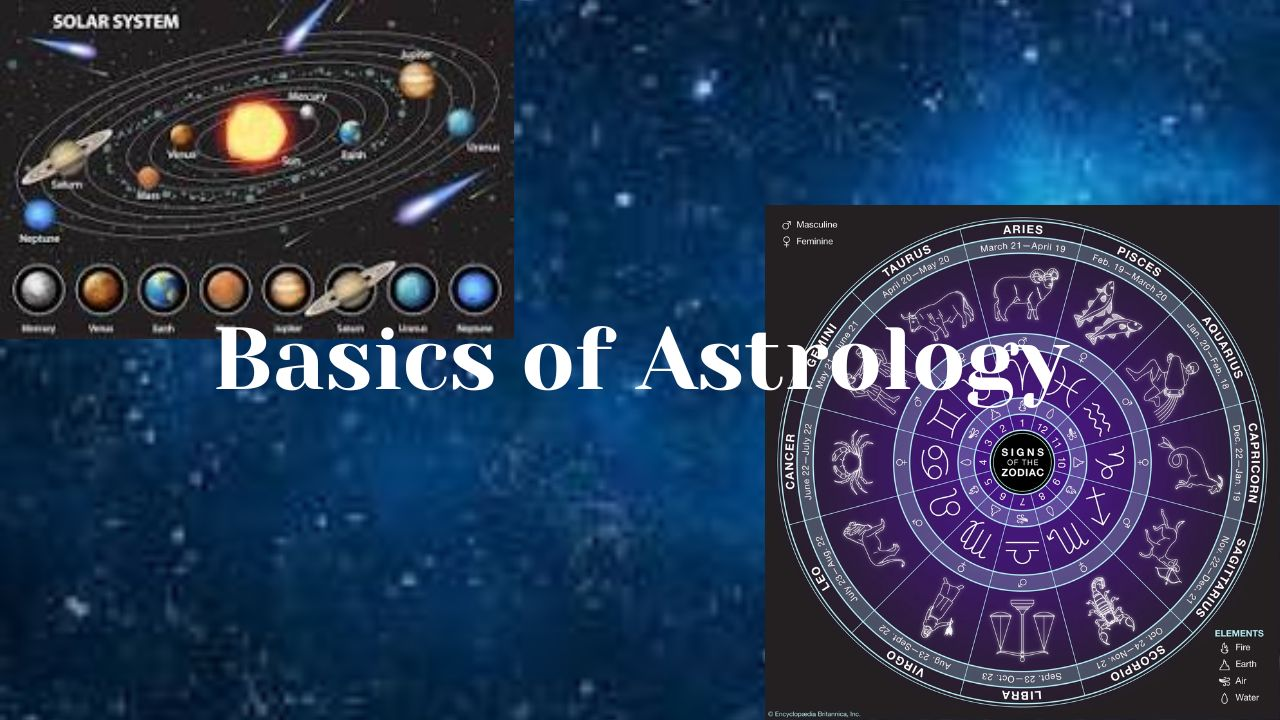
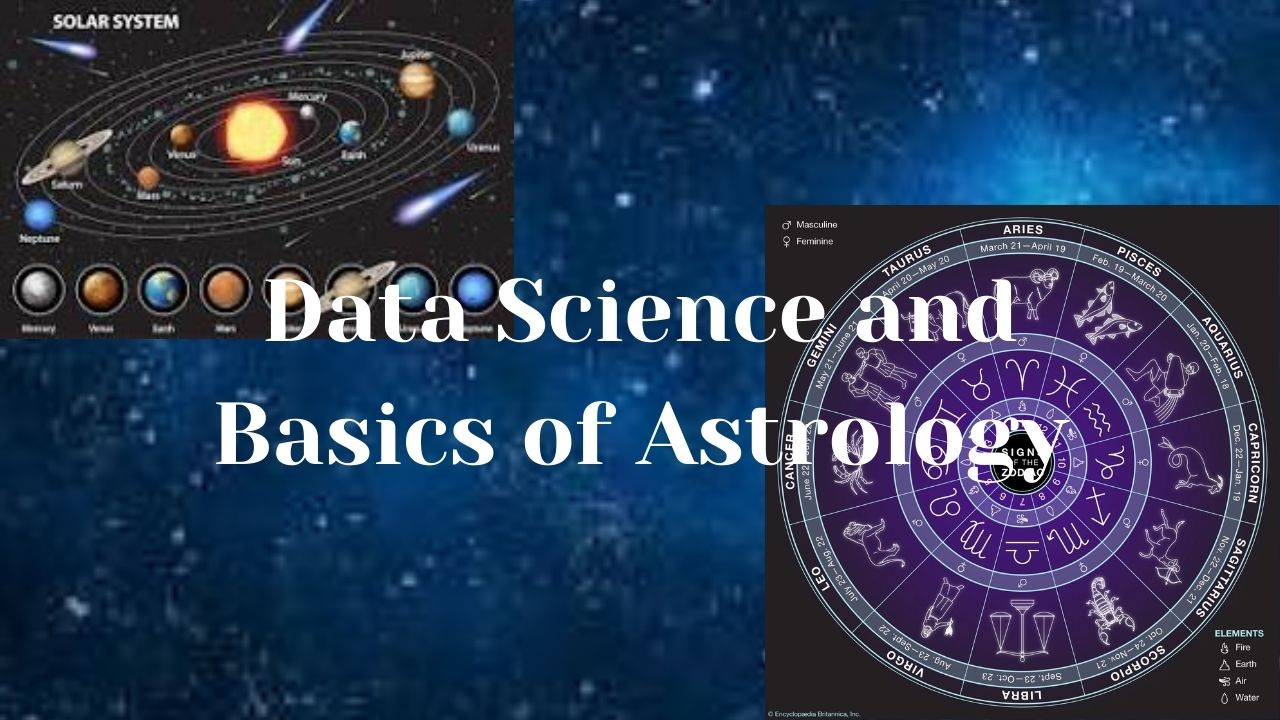
astrology

Changed region(s): [[0.1562, 0.3667, 0.8438, 0.6722]]

diff --git a/_dsblog/2023-12-27-Basics-of-Astrology.md b/_dsblog/2023-12-27-Basics-of-Astrology.md
@@ -1,7 +1,7 @@
 ---        
 mathjax: true   
 id:  6108       
-title: Basics of Astrology    
+title: Data Science and Basics of Astrology    
 date: "2023-12-27T08:33:00+05:30"        
 permalink: /dsblog/Basics-of-Astrology
 tags: [Education, Data Science, Astrology, Astronomy]
@@ -41,26 +41,26 @@ Let's say we want to study how safe you drive on the roads, we want to predict w
 Now you see, we can add 1000 more variables and some variables less and some more influence our driving habit and are useful in predicting the accident.
 
 
-Using this data, if we create a model and start predicting an accident or ticket/challan, obviously some of the predictions will be false negative, some will be false positive. But if model is have good variables in it then it predicts much better than the random guess.
+Using this data, we ccan reate a model and start predicting an accident or ticket/challan, obviously some of the predictions will be false negative, some will be false positive. But, if a model is having good variables in it then it predicts much better than the random guess.
 
-In older times, when people were interested in predicting life they were using time related variables, which are more reliable and what is more reliable in the cosmos than the movement of planets and stars in the sky? Now people started tracking the movement of these stars in the sky and events on the earth. Fire, earthquake, pandemic, war, rain, crop, fight, loss, gain of individuals, family and of king. And they developed a subject around this, that subject is astrology.
+In older times, when people were interested in predicting life they were using time related variables. What is more reliable in the cosmos than the movement of planets and stars in the sky? Now people started tracking the movement of these stars in the sky and events on the earth. Fire, earthquake, pandemic, war, rain, crop, fight, loss, gain of individuals, family and of king. And they developed a subject around this, that subject is astrology.
 
-We must understand relationship doesn't mean causation. For example, if there is heat then an ice cream seller is very happy. There is a relationship between heat and ice cream seller's happiness, more the temperature makes him happy but this relationship doesn't mean icecream seller is happy because of the hot weather. He is happy because of some other reason. His ice cream sales are high! Cause of his happiness is his sales, not temperature.
+We must understand relationship doesn't mean causation. For example, if there is heat then an ice cream seller is very happy. There is a relationship between heat and ice cream seller's happiness, more the temperature makes him happy but this relationship doesn't mean icecream seller is happy because of the hot weather. He is happy because of some other reason. His icecream sales are high! Cause of his happiness is his sales, not temperature.
 
-Similarly when astrologers see some patterns of planets and stars in the sky and they know their patterns are repetitive, the cycle of occurance can vary from hour to day to month to year or century but here is cyclicity. Now they observe the planets, there is cyclicity of the events, we popularly call, history repeats itself in different ways. This relationship between events on the earth and events in the sky has a relationship. Whether there is causation or not, that is a different subject for the study. But if the model is good you cannot deny the relationship.
+Similarly when astrologers see some patterns of planets and stars in the sky and they know their patterns are repetitive. The cycle of occurance can vary from hour to day to month to year or century but here is cyclicity. Now they observe the planets, there is cyclicity of the events. We popularly call, history repeats itself in different ways. This relationship between events on the earth and events in the sky has a relationship. Whether there is causation or not, that is a different subject for the study. But if the model is good you cannot deny the relationship.
 
 ## Why Astrology is not Effective Today?
-Thousands years back when we observed the patterns in celestial objects and early life then we developed certain relationship. That time the lifestyle on the earth was different and today it has changed a lot. Although we do the same thing but in different ways. Today we eat, sleep, marry, travel, speak, do agriculture, protect our interest and land, learn, teach, transact etc and we were doing these things that time also but today we are doing different ways. Therefore, the variables which created the prediction model (astrology system) have changed. How much prediction quality has suffered, how much is the contribution of today's lifestyle; that is a matter of research. But, without a doubt if we revise the model with new variables of lifestyle we can establish a relationship between celestial objects and earthly life. The beauty of this prediction model is it has thousands of parameters and billions of combinations possible. If we rebuild a model again using changed data on the early life that model will work. Earlier we were using only the human brain to compute those numbers and make predictions, so it was human dependent, therefore whoever can do fast calculation will be able to do astrology work faster and better. But with today's computers we can do that in seconds.. 
+Thousands years back when we observed the patterns in celestial objects and early life then we developed certain relationship. That time the lifestyle on the earth was different and today it has changed a lot. Although we do the same thing but in different ways. Today we eat, sleep, marry, have children, travel, speak, do agriculture, protect our interest and land, learn, teach, transact etc. And we were doing these things that time also but today we are doing in different ways. Therefore, the variables which we use to create the prediction model (astrology system) have changed. How much prediction quality has suffered, how much is the contribution of today's lifestyle; that is a matter of research. But, without a doubt if we revise the model with new variables of lifestyle we can establish a relationship between celestial objects and earthly life. The beauty of this prediction model is it has thousands of parameters and billions of combinations possible. If we rebuild a model again using changed data on the early life that model will work. Earlier we were using only the human brain to compute those numbers and make predictions, so it was human dependent. Therefore whoever can do fast calculation will be able to do astrology work faster and better. But with today's computers we can do that in seconds. Unfortunately, today we are using computer for astrology calculations but the model is outdated. Therefore prediction capability of the model has suffered. 
 
 We need to keep in mind every model has two aspects, one model building and second is model prediction. Believing in the capabilities of our Rishi and not having confidence in ourselves, we have not built that Jyotish model for thousands of years. We are using that as is, for the prediction. If we pull resources together and rebuild that model it will predict better like any machine learning model.
 
+## Does Astrology Treatment Work?
+If you have a problem in the left eye and you are sure due to what reason it is then the right medicine at the right place helps. Because we have found the cause and effect, therefore, now knowing the effect (pain on left eye) we can address the cause. Pain is an effect, the cause of the pain is different from the pain. If we can change the cause with external intervention we can alter the effect. This is the way medical treatment works.
 
-## Doest Astrology Treatment Work?
-If you have a problem in the left eye and you are sure due to what reason it is then the right medicine at the right place helps. Because we have found the cause and effect, therefore, now knowing the effect we can address the cause. Pain is an effect, the cause of the pain is different from the pain. If we can change the cause with external intervention we can alter the effect. This is medical treatment work.
+Celestial objects' movement and earthly life have a relationship. That can be established without doubt. But to establish the cause of earthly pain, suffering and joy is celestial movement; it is intriguing and complicated. It is another subject of serious research. People believe certain things, but belief is the matter of religion. Science is based on experiments and repetition of those experiments. Beliefs and religion are personal in nature and they are based on customs and traditions. Science is a universal and commonly agreed principle, it does not care about customs and traditions.  
 
-Celestial objects' movement and earthly life have a relationship. That can be established without doubt. But to establish the cause of earthly pain, suffering and joy is celestial movement; it is intriguing and complicated. It is another subject of serious research.
+So, when humans want to address the problem of earthly life he knows the power of the human mind. Human mind can manifest any misery, suffering, hell. But the same mind can manifest joy, love, abundance and heaven. So humans try to condition the mind for good, for that purpose we take help from external objects like stone, eating habits, light, ventilation, reading text of religious books etc. Is there any relationship between human wellbeing and doing these activities? Definitely yes, but is there any causation between doing these activities and human well being that is another subject of research. Astrologers, since ages giving those astrological treatments and observing the patterns, found treatment is effective. It doesn't mean there is a cause and effect relationship. By wearing a certain stone or worshiping a certain deity something happens in most of the cases. It proves there is a relationship, it doesn't prove there is any causation.
 
-So, when humans want to address the problem of earthly life he knows the power of the human mind. Human mind can manifest any misery, suffering, hell. But the same mind can manifest joy, love, abundance and heaven. So human try to condition the mind for good, for that purpose we take help of external objects like stone, eating habit, light, ventilation, reading text of religious books etc. Is there any relationship between human wellbeing and doing these activities? Definitely yes, but is there any causation between doing these activities and human well being that is another subject of research. Astrologers, since ages giving those astrological treatments and observing the patterns, found treatment is effective. It doesn't mean there is a cause and effect relationship. By wearing certain stone or worshiping certain deity something happens in most of the case. It proves there is relationship, it doesn't prove there is any causation.
 
 ## Sky observation
 - At any point of the day or night, if we are on the ground without obstacles of a mountain or building then we can see 180 degree space around us. It means whatever planets or stars in the sky we can see, we see half of that what exists not more than that
@@ -121,49 +121,53 @@ So, when humans want to address the problem of earthly life he knows the power o
 - Hindu (Panchang), Muslim (Hijri), Jewish, and Chinese calendars are based on the lunar calendar.
 - When Hindus create their birth horoscope, they consider both the Sun and Moon, making both the Zodiac sign and Nakshatra significant. It is different thing that nowadays we only remember Zodiac sign and not aware about Nakshatra.
 
-## Astronomy
-- The Sun resides at the center of our solar system, with an approximate radius of 700,000 kilometers.
-	1. Mercury is positioned 58 million kilometers away from the Sun, boasting a radius of approximately 2,500 kilometers and no natural satellite.
-	2. Venus lies 108 million kilometers away from the Sun, having a radius of 6,000 kilometers and no natural satellite.
-	3. Earth is between 147 and 152 million KM away from sun, it has 6.4 K KM radius, and 1  natural satellite.
-	4. Mars is situated 228 million kilometers away from the Sun, with a radius of 3,400 kilometers and two natural satellites.
-	5. Jupiter orbits at a distance of 778 million kilometers from the Sun, exhibiting a massive radius of 70,000 kilometers and possessing 79 natural satellites.
-	6. Saturn is positioned 1,400 million kilometers away from the Sun, with a radius of 58,200 kilometers and 83 natural satellites.
-	7. Uranus orbits at a distance of 2,900 million kilometers from the Sun, having a radius of 25,300 kilometers and 27 natural satellites.
-	8. Neptune is located 4,500 million kilometers away from the Sun, boasting a radius of 24,600 kilometers and possessing 14 natural satellites.
-	9. Pluto's distance from the Sun ranges between 4,500 to 7,400 million kilometers, with a radius of 1,100 kilometers and five natural satellites.
+## Astronomy is not Astrology
+Astronomy is pure science, it is based on the facts of celestial objects and their movements. It has nothing to do with our perception about those.
+
+1. The Sun resides at the center of our solar system, with an approximate radius of 700,000 kilometers.
+2. Mercury is positioned 58 million kilometers away from the Sun, boasting a radius of approximately 2,500 kilometers and no natural satellite.
+3. Venus lies 108 million kilometers away from the Sun, having a radius of 6,000 kilometers and no natural satellite.
+4. Earth is between 147 and 152 million KM away from sun, it has 6.4 K KM radius, and 1  natural satellite.
+5. Mars is situated 228 million kilometers away from the Sun, with a radius of 3,400 kilometers and two natural satellites.
+6. Jupiter orbits at a distance of 778 million kilometers from the Sun, exhibiting a massive radius of 70,000 kilometers and possessing 79 natural satellites.
+7. Saturn is positioned 1,400 million kilometers away from the Sun, with a radius of 58,200 kilometers and 83 natural satellites.
+8. Uranus orbits at a distance of 2,900 million kilometers from the Sun, having a radius of 25,300 kilometers and 27 natural satellites.
+9. Neptune is located 4,500 million kilometers away from the Sun, boasting a radius of 24,600 kilometers and possessing 14 natural satellites.
+10. Pluto's distance from the Sun ranges between 4,500 to 7,400 million kilometers, with a radius of 1,100 kilometers and five natural satellites.
 - **Distance above are approx. rounded off in thousands**
 
 ## Astrology     
-- In astrology we have 9 planets, which are different from above.
-	1. Sun (Surya)
-	2. Moon (Chandra)
-	3. Mars (Mangal)
-	4. Mercury (Buddha)
-	5. Jupiter (Brahaspati)
-	6. Venus (Shukra)
-	7. Saturn (Shani)
-	8. Rahu (head of the body)
-	9. Ketu (rest of the body)
+Astrology is based on human perceptions, believe and culture. Yes, it is depending upon the reality around but there is always a gap between the reality and perception about the reality.
 
-- 12 Rashi (Zodic Sign) and their lords are as following.
-	1. मेष राशि: मंगल (Mars)
-	2. वृषभ राशि: शुक्र (Venus)
-	3. मिथुन राशि: बुध (Mercury)
-	4. कर्क राशि: चंद्र (Moon)
-	5. सिंह राशि: सूर्य (Sun)
-	6. कन्या राशि: बुध (Mercury)
-	7. तुला राशि: शुक्र (Venus)
-	8. वृश्चिक राशि: मंगल (Traditional), प्लूतो (Modern) (Mars, Pluto)
-	9. धनु राशि: गुरु (Jupiter)
-	10. मकर राशि: शनि (Saturn)
-	11. कुंभ राशि: शनि (Traditional), यूरेनस (Modern) (Saturn, Uranus)
-	12. मीन राशि: गुरु (Jupiter)
+In astrology we have 9 planets, which are different from above.
+1. Sun (Surya)
+2. Moon (Chandra)
+3. Mars (Mangal)
+4. Mercury (Buddha)
+5. Jupiter (Brahaspati)
+6. Venus (Shukra)
+7. Saturn (Shani)
+8. Rahu (head of the body)
+9. Ketu (rest of the body)
+
+12 Rashi (Zodic Sign) and their lords are as following.
+1. मेष राशि: मंगल (Mars)
+2. वृषभ राशि: शुक्र (Venus)
+3. मिथुन राशि: बुध (Mercury)
+4. कर्क राशि: चंद्र (Moon)
+5. सिंह राशि: सूर्य (Sun)
+6. कन्या राशि: बुध (Mercury)
+7. तुला राशि: शुक्र (Venus)
+8. वृश्चिक राशि: मंगल (Traditional), प्लूतो (Modern) (Mars, Pluto)
+9. धनु राशि: गुरु (Jupiter)
+10. मकर राशि: शनि (Saturn)
+11. कुंभ राशि: शनि (Traditional), यूरेनस (Modern) (Saturn, Uranus)
+12. मीन राशि: गुरु (Jupiter)
 	
 ## How to look Horoscope 
 - Lagna horoscope mean the horoscope created based on the planet and stars position in the sky at the time of birth.
-- Horscope can be prepared for anything which is created. People, building, city, nation, political party, animals anything can have horoscope.
-- To create a horoscope on a paper, we create 12 boxes as below
+- Horscope can be prepared for anything which is created by human or nature. It can be human, building, city, nation, political party, animals etc, anything can have horoscope.
+- To create a horoscope on a paper, we create 12 boxes (houses) as below
 
 ![12-Houes-of-Horoscope](/assets/images/dspost/dsp6108-12-Houes-of-Horoscope.jpg)
 
@@ -180,25 +184,25 @@ So, when humans want to address the problem of earthly life he knows the power o
 	10. Tenth House (Midheaven): Career, public image, achievements.
 	11. Eleventh House: Friendships, community, goals, aspirations.
 	12. Twelfth House: Subconscious, spirituality, hidden matters, isolation.
-- If you want to look into one aspect of the life then you need to look that particular house in horoscope. It gives you over understanding of the personality of the person.
+- If you want to look into one aspect of the life then you need to look that particular house in horoscope. It gives you overall understanding of the personality of the person. And and it can help you in predictions.
 
 - Rashi in different houses.
 	- As per the lagna 12 Rashi will sit in different house (above 12 boxes)
-	- If you see 5 is written in the place of 1 (House 1), it means Leo (Zodiac 5th sign) is at the time of birth. then every number will shift by 5. In anticlockwise manner you have write other number 6,7, etc in 2,4, etc houses. In that case it would look like below. This information come from the Planet and Nakshastra position at the time of birth.
+	- For a simple example: In a below diagram, if you see 5 is written in the place of 1 (House 1), it means Leo (Zodiac 5th sign) is at the time of birth. then every number will shift by 5. In anticlockwise manner you have write other number 6,7, etc in 2,4, etc boxes/houses. In that case it would look like below. This information come from the Planet and Nakshastra position at the time of birth.
 
 	![12-Houes-of-Horoscope](/assets/images/dspost/dsp6108-12-Rashi-in-Horoscope.jpg)
 
-- Once the above horsope is in place then you can combine followin to predict any specific aspect of the life.
+- Once the above horsope is in place then you can combine following to predict any specific aspect of the life.
 	- For example you want to check finance then we should look into house number 2.
-	- What is in the house 2? In our example above 6 is in the 2nd place. 6 means Virgo
-	- Lord of Virgo is Mercury. So mercury is taking care of the that person's finance.
+	- What is in the house 2? In our example above, 6 is in the 2nd place. 6 means Virgo
+	- Lord of Virgo is Mercury. So mercury is taking care of that person's finance.
 	- Combine the attribute which you want to look, and the attribute of the lord of Zodiac sign, attribute of Nakshatra, Lord of Nakshatra.
-	- who else is sitting in that house?
+	- Who else is sitting in that house?
 	- Who is sitting opposite side of that house?
-	- Which planets are considered friendly?
-	- Which planets are considered enemy?
-	- Enemy planet as sitting together or in oppositve direction
-	- Friendly planets are istting together or in opposite direction.
+	- Which planets are considered friendly to each other?
+	- Which planets are considered enemy to each other?
+	- Enemy planet are sitting together or in oppositve direction
+	- Friendly planets are sitting together or in opposite direction.
 
 ### Navgrah or 9 Vedic planets and what they represents
 1. Sun (Surya): Represents vitality, soul, father, authority, government, and confidence.
@@ -210,3 +214,8 @@ So, when humans want to address the problem of earthly life he knows the power o
 7. Saturn (Shani): Governs discipline, responsibility, hard work, karma, limitations, and longevity.
 8. Rahu: Signifies desires, obsessions, worldly materialism, ambitions, and unconventional approaches.
 9. Ketu: Represents spirituality, detachment, liberation, introspection, and karmic lessons.
+
+## Conclusion
+I hope this has given you the idea of astrology, astronomy and the relationship between them. You also learned how astrology is hugely based on the data therefore to have correct prediction we need more data to build the model. We knew the challenges in getting the data and making that model.
+
+Now we cannot outrightly reject astrology as bogus science, nor do we go blindly after astrology prediction. Take it with that much care which you can handle, too much reliance on this or declaring it bogus subjects (what stars or planets millions mile away can do to humans, etc) both are extreme and should be avoided as much as possible.
